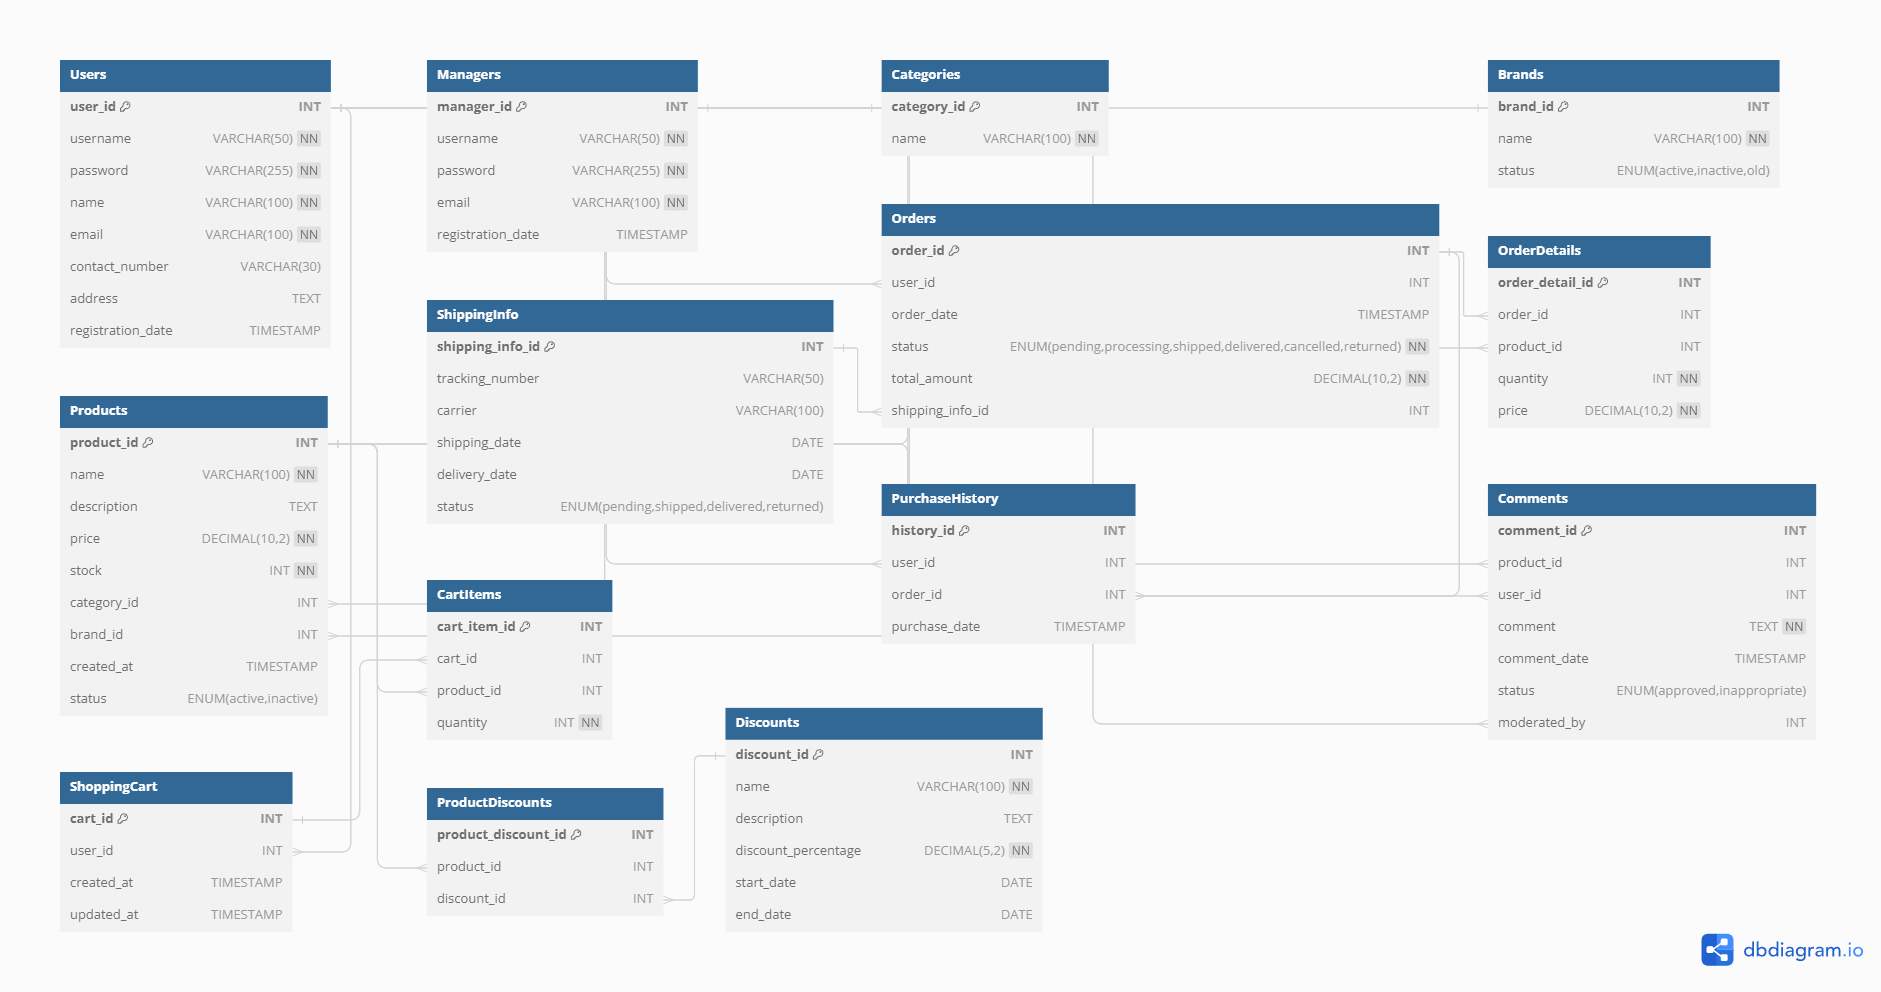
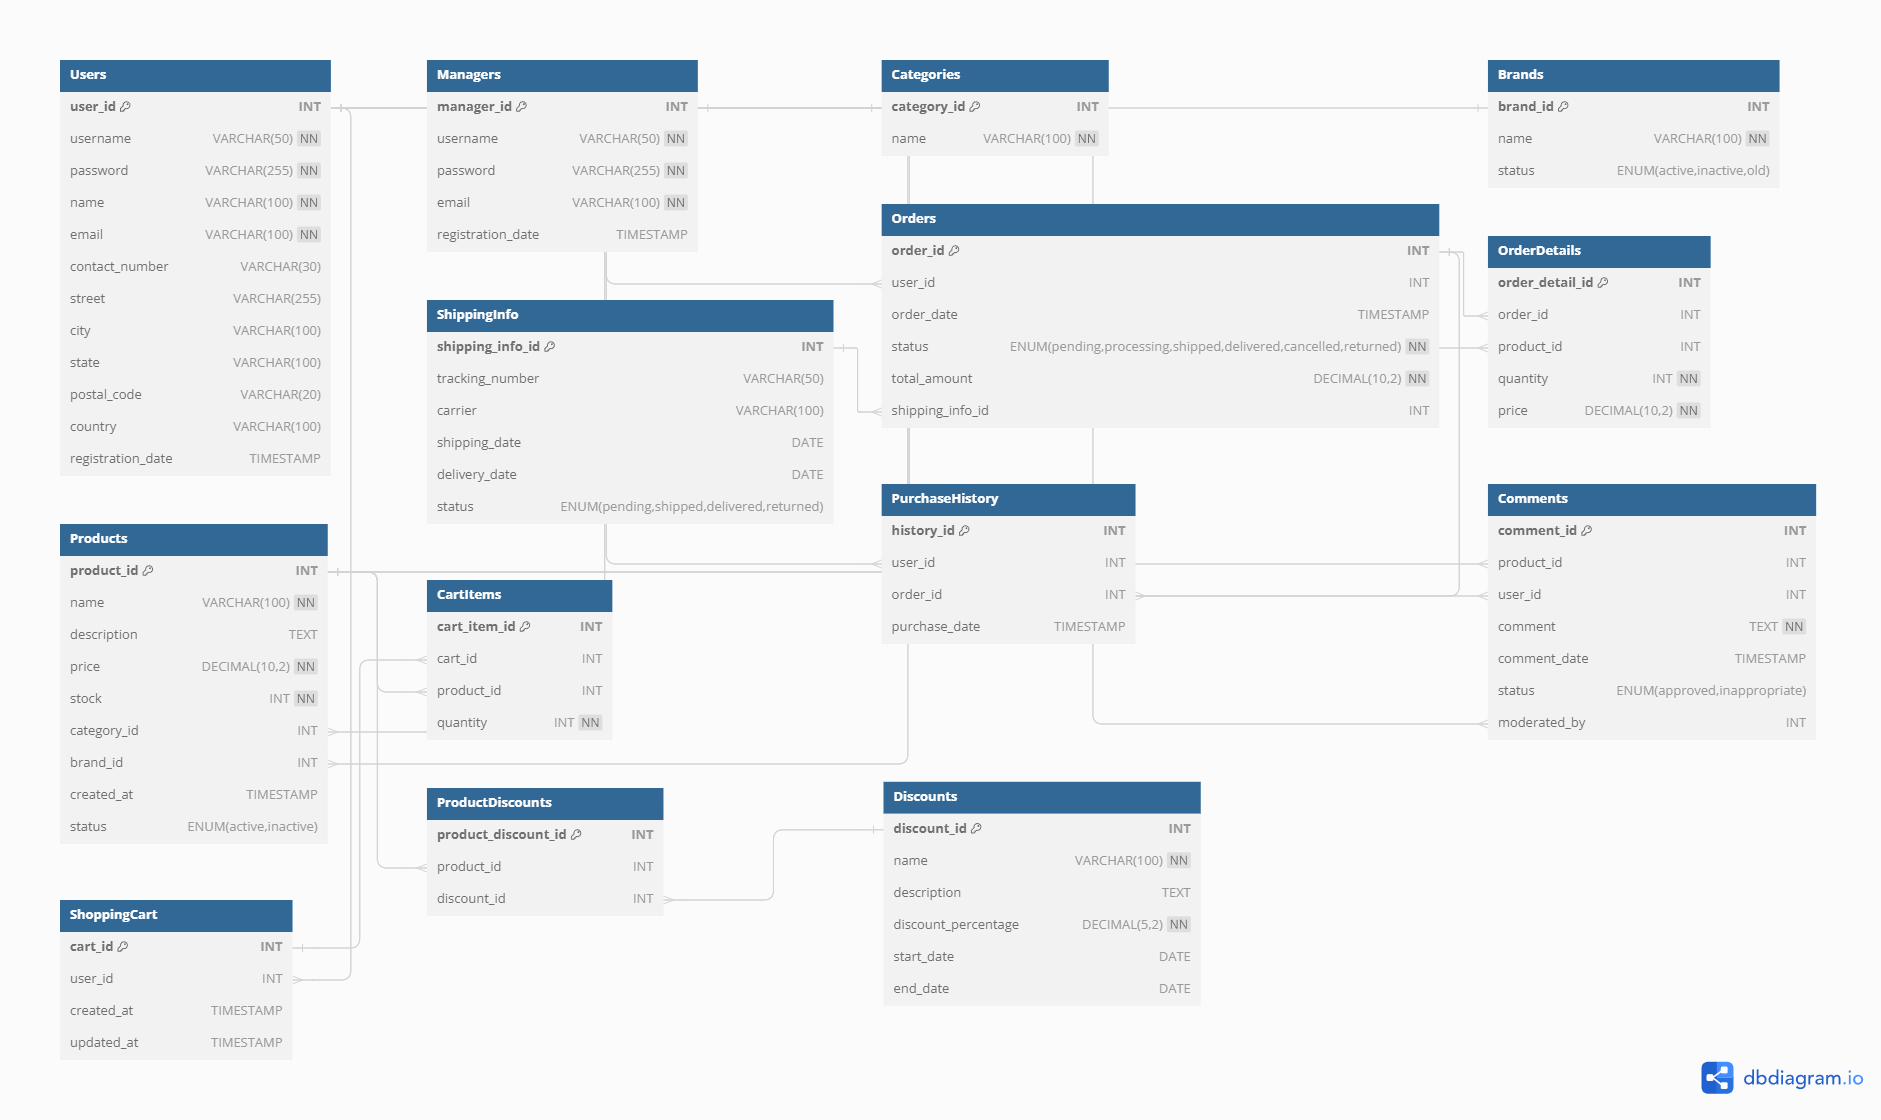
revised the er diagram and normalized the normalized user table and updated the DataGenerator code

diff --git a/Code/DataGenerator.py b/Code/DataGenerator.py
@@ -66,7 +66,7 @@ product_names = {
         'Coca-Cola': ['Coca-Cola Soda', 'Sprite', 'Fanta']
     },
     'Beauty': {
-        'L\'Oreal': ['L\'Oreal Shampoo', 'L\'Oreal Mascara', 'L\'Oreal Lipstick'],
+        'L\'Oreal': ['L\'Oreal Shampoo', 'L\'Oreal Mascara', 'L\'OReal Lipstick'],
         'Estee Lauder': ['Estee Lauder Foundation', 'Estee Lauder Serum', 'Estee Lauder Perfume'],
         'Procter & Gamble': ['Olay Cream', 'Pantene Shampoo', 'Gillette Razor'],
         'Niche': ['Dove Soap', 'Axe Deodorant', 'TRESemme Shampoo'],
@@ -92,9 +92,9 @@ comments = {
         "Exceeded my expectations.",
         "Excellent quality, will buy again.",
         "Highly recommended!",
-        "Fantastic value for money."
-        "Worst product ever."
-        "Terrible quality, very disappointed."
+        "Fantastic value for money.",
+        "Worst product ever.",
+        "Terrible quality, very disappointed.",
         "Very poor customer service."
     ],
     'inappropriate': [
@@ -128,9 +128,13 @@ def generate_users(n):
             name = faker.name()
             email = faker.email()
             contact_number = faker.phone_number()
-            address = faker.address()
-            cursor.execute("INSERT INTO Users (username, password, name, email, contact_number, address) VALUES (%s, %s, %s, %s, %s, %s)",
-                           (username, password, name, email, contact_number, address))
+            street = faker.street_address()
+            city = faker.city()
+            state = faker.state()
+            postal_code = faker.postcode()
+            country = faker.country()
+            cursor.execute("INSERT INTO Users (username, password, name, email, contact_number, street, city, state, postal_code, country) VALUES (%s, %s, %s, %s, %s, %s, %s, %s, %s, %s)",
+                           (username, password, name, email, contact_number, street, city, state, postal_code, country))
         except mysql.connector.Error as err:
             print(f"Error: {err}")
             continue
